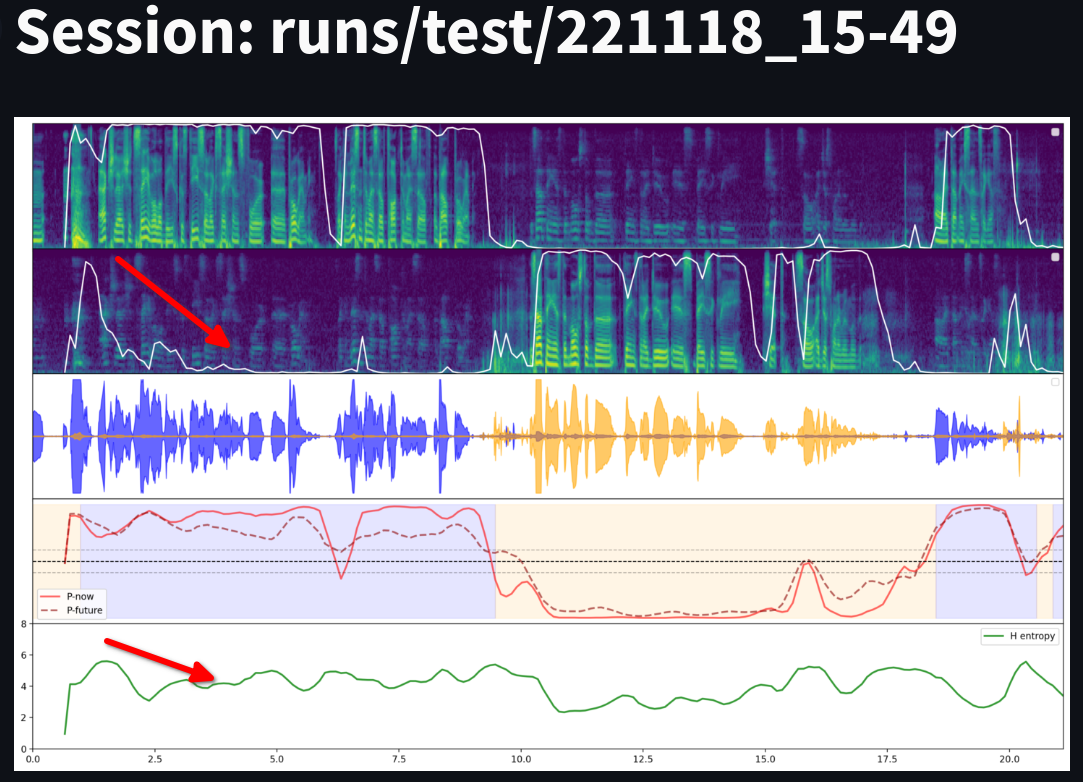
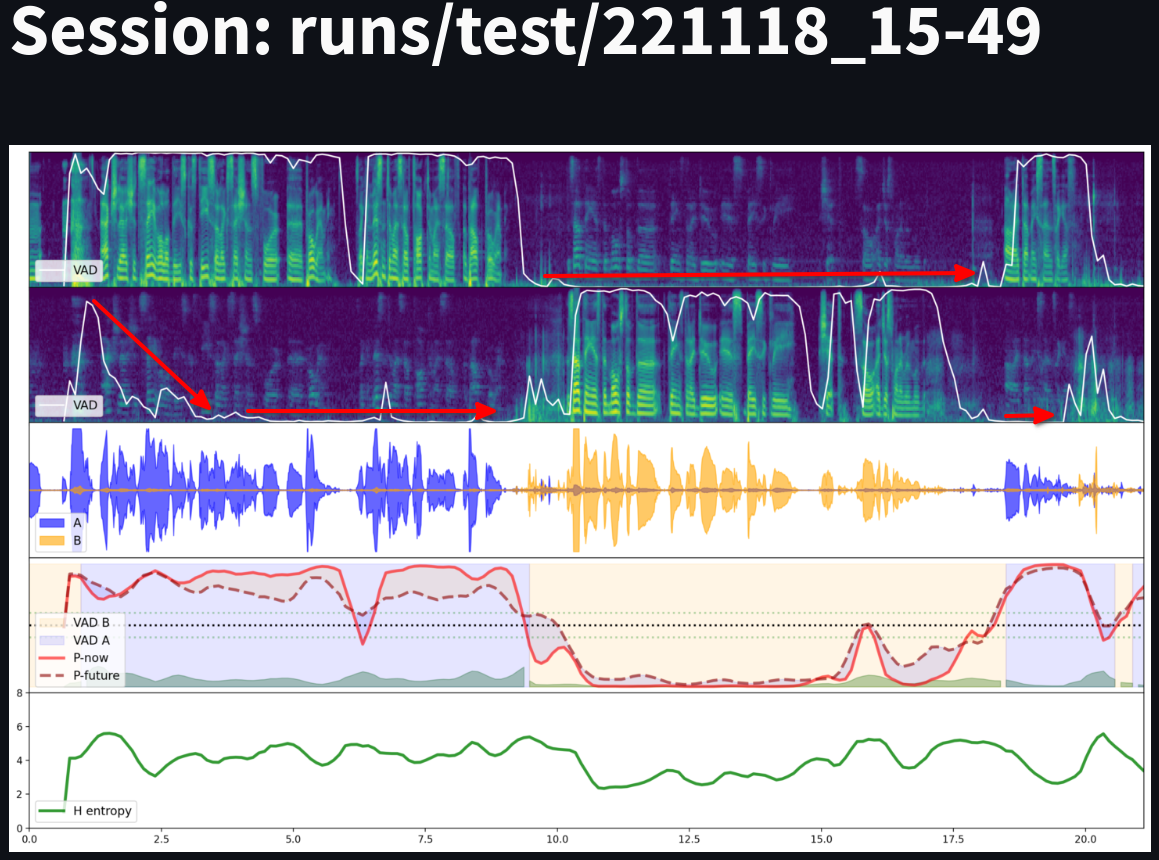
Update visuaal and notes

diff --git a/vap_agent/visualize_turn.py b/vap_agent/visualize_turn.py
@@ -6,9 +6,11 @@ import matplotlib.pyplot as plt
 
 import streamlit as st
 
+import vap.functional as VF
 from vap.audio import load_waveform, log_mel_spectrogram
 from vap.utils import read_json, read_txt
 from vap.plot_utils import plot_stereo_mel_spec
+from vap_turn_taking.vap_new import VAP
 
 parser = ArgumentParser()
 parser.add_argument("--root", type=str, default="runs")
@@ -82,6 +84,16 @@ def load_vap_log(path):
     for k, v in d.items():
         d[k] = torch.tensor(v)
 
+    d["vad"] = torch.stack([d["v1"], d["v1"]], dim=-1)
+
+    # vad = (vad > 0.5).float()
+    # zero_pad = torch.zeros((100, 2))
+    # vad = torch.cat((vad, zero_pad), dim=0)
+
+    # vapper = VAP()
+    # d["labels"] = vapper.extract_labels(vad)
+    # print("d['labels']: ", tuple(d["labels"].shape))
+    # print(d["labels"])
     return d
 
 
@@ -94,13 +106,51 @@ def plot_turn_shift(vap, dialog, ax=None, lw=2):
     else:
         fig = None
 
+    # Color background based on turns
+
+    speaker_set = {"a": False, "b": False}
     for turn in dialog:
+
+        current_speaker = turn["speaker"]
         color = "b"
-        if turn["speaker"] == "b":
+        if current_speaker == "b":
             color = "orange"
-        ax.fill_betweenx(
-            y=[0, 1], x1=turn["start"], x2=turn["end"], color=color, alpha=0.1
-        )
+
+        # find times in this turn
+        after_start = turn["start"] <= vap["time"]
+        before_end = vap["time"] <= turn["end"]
+        in_idx = torch.where(torch.logical_and(after_start, before_end))
+
+        if len(in_idx[0]) > 0:
+            t = vap["time"][in_idx]
+            bc_color = "darkgreen"
+            if current_speaker == "b":
+                v = vap["p_bc_a"][in_idx]
+            else:
+                v = vap["p_bc_b"][in_idx]
+            ax.fill_between(t, v, 0, color=bc_color, alpha=0.3)
+
+        if not speaker_set[turn["speaker"]]:
+            ax.fill_betweenx(
+                y=[0, 1],
+                x1=turn["start"],
+                x2=turn["end"],
+                color=color,
+                alpha=0.1,
+                # hatch="+",
+                label="VAD " + turn["speaker"].upper(),
+            )
+            speaker_set[turn["speaker"]] = True
+        else:
+            ax.fill_betweenx(
+                y=[0, 1],
+                x1=turn["start"],
+                x2=turn["end"],
+                color=color,
+                alpha=0.1,
+                # hatch="+",
+            )
+
     ax.plot(
         vap["time"], vap["p_now"], linewidth=lw, color="r", alpha=0.6, label="P-now"
     )
@@ -120,8 +170,8 @@ def plot_turn_shift(vap, dialog, ax=None, lw=2):
         vap["p_now"],
         where=diff >= 0,
         color="b",
-        alpha=0.2,
-        label="P-diff",
+        alpha=0.1,
+        # label="A future",
     )
     ax.fill_between(
         vap["time"],
@@ -129,8 +179,8 @@ def plot_turn_shift(vap, dialog, ax=None, lw=2):
         vap["p_now"],
         where=diff <= 0,
         color="orange",
-        alpha=0.2,
-        label="P-diff",
+        alpha=0.1,
+        # label="B future",
     )
 
     ax.axhline(0.4, linewidth=2, linestyle="dotted", color="g", alpha=0.3, zorder=1)
@@ -234,21 +284,138 @@ def plot_vad(vap, ax, scale=1):
     ax[1].plot(vap["time"], vap["v2"] * scale, color="w", label="VAD")
 
 
+def plot_prosody(waveform, vap, dialog, ax, sample_rate=16000, hop_time=0.01):
+    f0 = VF.pitch_praat(
+        waveform.cpu(), sample_rate=sample_rate, hop_time=hop_time, f0_max=400
+    )
+    f0_times = torch.arange(f0.shape[-1]).float() * hop_time
+    f0[f0 == 0] = torch.nan
+    # ax.plot(
+    #     f0_times,
+    #     f0[1].log(),
+    #     "o",
+    #     markersize=4,
+    #     color="orange",
+    #     alpha=0.8,
+    #     label="B F0",
+    # )
+
+    #######################################
+    # F0
+    #######################################
+    # Plot only F0 for the current speaker
+    # F0-praat: can't handle overbleed
+    speaker_set = {"a": False, "b": False}  # only set legend once
+    for turn in dialog:
+        current_speaker = turn["speaker"]
+
+        # find times in this turn
+        after_start = turn["start"] <= f0_times
+        before_end = f0_times <= turn["end"]
+        in_idx = torch.where(torch.logical_and(after_start, before_end))
+
+        # If there are frames in this turn we plot them
+        if len(in_idx[0]) > 0:
+            t = f0_times[in_idx]
+            color = "b"
+            if current_speaker == "a":
+                f = f0[0][in_idx]
+            else:
+                f = f0[1][in_idx]
+                color = "orange"
+
+            if not speaker_set[current_speaker]:
+                ax.plot(
+                    t,
+                    f.log(),
+                    "o",
+                    markersize=4,
+                    color=color,
+                    alpha=0.8,
+                    label=current_speaker.upper() + " F0",
+                )
+                speaker_set[current_speaker] = True
+            else:
+                ax.plot(
+                    t,
+                    f.log(),
+                    "o",
+                    markersize=4,
+                    color=color,
+                    alpha=0.8,
+                )
+
+    #######################################
+    # Plot F0 envelope?
+    # env = f0.unfold(dimension=-1, step=1, size=10)
+    # env = env.max(dim=-1).values
+    # t_env = times.unfold(dimension=-1, step=1, size=10).max(dim=-1).values
+    # ax.plot(t_env, env[0], color="b", alpha=0.5)
+    # ax.plot(t_env, env[1], color="orange", alpha=0.5)
+
+    #######################################
+    # Intensity
+    #######################################
+    int_hop_time = 0.1
+    ints = VF.intensity_praat(waveform, sample_rate=sample_rate, hop_time=int_hop_time)
+    with torch.no_grad():
+        k = 15
+        c = torch.nn.Conv1d(
+            in_channels=1,
+            out_channels=1,
+            kernel_size=k,
+            stride=1,
+            bias=False,
+            padding="same",
+            padding_mode="replicate",
+        )
+        c.weight.data.fill_(1 / k)
+        ints = c(ints.unsqueeze(1))[:, 0]
+    ints_times = torch.arange(ints.shape[-1]).float() * int_hop_time
+
+    aa = ax.twinx()
+    # aa = ax
+    aa.plot(
+        ints_times,
+        ints[0].log(),
+        linestyle="dashed",
+        linewidth=3,
+        color="b",
+        alpha=0.2,
+        label="A intensity",
+    )
+    aa.plot(
+        ints_times,
+        ints[1].log(),
+        linestyle="dashed",
+        linewidth=3,
+        color="orange",
+        alpha=0.4,
+        label="B intensity",
+    )
+    aa.legend(loc="upper left")
+    aa.set_yticks([])
+    return ax
+
+
 def plot_full_global(waveform, vap, dialog):
-    fig, axs = plt.subplots(5, 1, figsize=(16, 10), sharex=True)
+    fig, axs = plt.subplots(6, 1, figsize=(16, 10), sharex=True)
 
     lw = 3
     plot_mel_spectrogram(waveform, ax=[axs[0], axs[1]])
     plot_vad(vap, scale=80, ax=[axs[0], axs[1]])
     plot_waveform(waveform, max_points=2000, ax=axs[2])
     plot_turn_shift(vap, dialog, ax=axs[3], lw=lw)
+    plot_prosody(waveform, vap, dialog, ax=axs[4])
     plot_information(vap, ax=axs[-1], lw=lw)
 
     for a in axs[:-1]:
         a.set_yticks([])
 
     for a in axs:  # not mels
-        a.legend(loc="upper left", fontsize=12)
+        # a.legend(loc="upper left", fontsize=12)
+        # a.legend(loc="lower left", fontsize=12)
+        a.legend(loc="upper right", fontsize=12)
 
     plt.subplots_adjust(
         left=0.01, bottom=None, right=0.99, top=0.99, wspace=0.01, hspace=0

diff --git a/NOTES.md b/NOTES.md
@@ -2,7 +2,12 @@
 
 
 * [Overbleed is recognized with context]()
+* [Overbleed at onset]()
+* [Entropy at turn-shift projections]()
 
+
+# Overview Example
+![Example](assets/session_example.png)
 
 
 # Overbleed is recognized with context
@@ -22,3 +27,35 @@ The entropy "generally" increases at complicated steps (e.g. TRP, a turn-shift i
 ![vad requires context](assets/note_3_turn_shift_projection_entropy.png)
 
 The entropy "generally" increases at the end of turns which can indicate that the model anticipates a turn-shift. During a turn the model can mostly focus on modelling the current speaker but in proximity to a turn-shift the influence of the second speaker increases which is reflected in the rise in entropy.
+
+# Add asr with some text so we can look at TurnGPT
+
+![add turngpt](assets/note_5_bc_bumps.png)
+
+We plot the prediction probability of a backchannel (zero-shot classes) from the "listener".
+
+* Common at the end of turns?
+* Common inside turns?
+    * phrase boundaries
+    * breath groups
+
+# Future and Now Projection Divergence vs Convergence
+
+![add turngpt](assets/note_6_now_future_divergence.png)
+
+
+* Divergence:
+    * The future "believes" the turn is ending (in 600-2000ms)
+    * The present indicates that the speaker will continue in the immediate future (0-600ms)
+* Convergence:
+    * *''Observation at start of conversation which feels very noisy''*
+    * The convergence indicates a clear next speaker
+* Parallel:
+    * The present and the future agrees about the current state
+
+---------------------------------------------
+
+# Add ASR with some text so we can look at TurnGPT
+
+
+![add turngpt](assets/note_4_add_turngpt.png)
